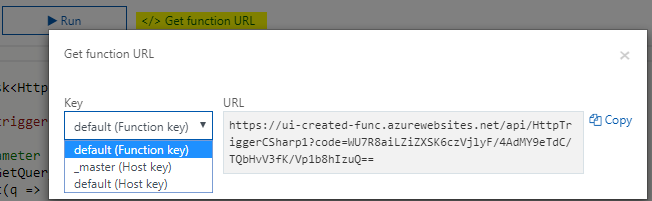
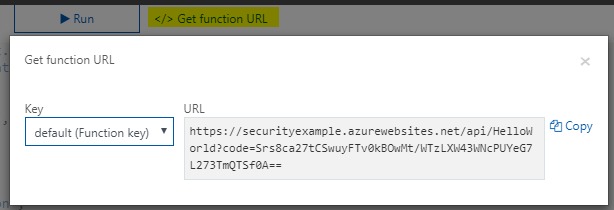
raw outline of part one.

Changed region(s): [[0.0, 0.0, 1.0, 1.0], [0.9283, 0.2687, 0.9593, 0.3284]]

diff --git a/_posts/2018-07-01-Azure-Functions-Security.md b/_posts/2018-07-01-Azure-Functions-Security.md
@@ -15,24 +15,26 @@ Es stellt sich die Frage, ob diese function dann auch schon "abgesichert" ist.
 
 Eine function besteht grob aus zwei Teilen: Aus der ["Azure Function"](https://docs.microsoft.com/en-us/azure/azure-functions/) selbst und dem ["Azure App Service"](https://docs.microsoft.com/en-us/azure/app-service/) in dem die function existiert. Dies führt dazu, dass man zwei Punkte betrachten muss, wenn es um die Frage der Sicherheit geht: Zum einen den App Service und zum anderen die function. 
 
-## Sicherheit in functions
-Die Fragestellung nach der "Sicherheit der function" ist etwas verwirrend - im Grunde soll ja nicht die function abgesichert werden, sondern der Aufruf bzw. der Start der function. Functions starten immer über sogenannte Trigger, von denen die meisten Azure-Intern zu verwenden sind (z.B. Timer, Event Hub oder Blob Storage). Der für  diesen Artikel betrachtete Trigger ist der [HTTP oder "generic web hook"-Trigger](https://docs.microsoft.com/en-us/azure/azure-functions/functions-create-generic-webhook-triggered-function).
+# Authentifizierung und Autorisierung
 
-Lauf [Doku](https://docs.microsoft.com/en-us/azure/azure-functions/functions-bindings-http-webhook#trigger---configuration) stehen drei Autorisierungsmechanismen auf Ebene der functions zur Verfügung:
+## Sicherheit in functions
+Die Fragestellung nach der "Sicherheit der function" ist etwas verwirrend - im Grunde soll ja nicht die function abgesichert werden, sondern der Aufruf bzw. der Start der function. Functions starten immer über sogenannte Trigger, von denen die meisten Azure-Intern zu verwenden sind (z.B. Timer, Event Hub oder Blob Storage). Der für  diesen Artikel betrachtete Trigger ist daher der [HTTP oder "generic web hook"-Trigger](https://docs.microsoft.com/en-us/azure/azure-functions/functions-create-generic-webhook-triggered-function).
+
+Laut [Doku](https://docs.microsoft.com/en-us/azure/azure-functions/functions-bindings-http-webhook#trigger---configuration) stehen drei Autorisierungsmechanismen auf Ebene des Triggers zur Verfügung:
+
+![Die Folgenden Autorisierungen stehen zur Verfügung](../assets/images/posts/Azure-Functions-Security/function-authorization-ui.png) ![Im Tooltip gibt es auch eine kleine Erklärung](../assets/images/posts/Azure-Functions-Security/function-authorization-ui-explained.png)
 
  - `anonymous` - No API key is required.
  - `function` - A function-specific API key is required. This is the default value if none is provided.
  - `admin` - The master key is required.
 
-![Die Folgenden Autorisierungen stehen zur Verfügung](../assets/images/posts/Azure-Functions-Security/function-authorization-ui.png) ![Im Tooltip gibt es auch eine kleine Erklärung](../assets/images/posts/Azure-Functions-Security/function-authorization-ui-explained.png)
- 
-Diese Funktion lässt es also zu, den Aufruf der function über einen Schlüssel (oder "key") abzusichern. Wie sieht das genau aus:
+Der HTTP-Trigger einer Funktion lässt es also zu, den Aufruf der function über einen Schlüssel (oder "key") abzusichern. Wie sieht das genau aus:
 
-Zuerst muss der Schlüssel abgerufen werden:
+Zuerst muss der Schlüssel abgerufen werden: Dis geht über die Seite der Funktion selber:
 
 ![Anzeige von Schlüsseln in der UI](../assets/images/posts/Azure-Functions-Security/function-authorization-keys.png)
 
-Die Schlüssel haben natürlich auch eine Verwaltungsoberfläche:
+Oder über die Verwaltungsseite: 
 
 ![Anzeige von Schlüsseln in der UI](../assets/images/posts/Azure-Functions-Security/function-authorization-key-management.png)
 
@@ -40,13 +42,40 @@ Die Schlüssel können über zwei verschiedene Mechanismen verwendet werden. Ent
 
     https://<yourapp>.azurewebsites.net/api/<function>?code=<ApiKey>
 
-Oder als `x-functions-key` HTTP-Header.
+Oder über den HTTP-Header `x-functions-key`.
+
+Ein möglicher Zugriff kann damit auf zwei Arten geschehen:
+
+```cs
+    const string function = "https://securityexample.azurewebsites.net/api/HelloWorld";
+    const string code = "Srs8ca27tCSwuyFTv0kBOwMt/WTzLXW43WNcPUYeG7L273TmQTSf0A==";
+
+    // via get-parameter
+    using (var client = new WebClient())
+    {
+        Console.WriteLine("Sending code via get-parameter...");
+        var fullUrl = $"{function}?code={code}";
+        var data = client.DownloadString(fullUrl);
+        Console.WriteLine(data);
+    }
+
+    // oder via HTTP-Header
+    using (var client = new WebClient())
+    {
+        Console.WriteLine("Sending code via HTTP-Header...");
+        client.Headers.Add("x-functions-key", code);
+        var data = client.DownloadString(function);
+        Console.WriteLine(data);
+    }
+```
 
 Auf Ebene einer mit Code erstellen function lässt sich noch eine weitere Methode finden: *User*
 
-![Uer als Authorisation ist im code möglich](../assets/images/posts/Azure-Functions-Security/function-authorization-code.png)
+![User als Authorisation ist im code möglich](../assets/images/posts/Azure-Functions-Security/function-authorization-code.png)
 
-Dieses feature ist aber - obwohl hier auswählbar - zum Zeitpunkt dieses Beitrags noch nicht verfügbar. (Der Status des features kann in einem [Github-Issue](https://github.com/Azure/azure-functions-host/issues/33) eingesehen werden.) Eine Benutzer-Autorisierung scheint auf Ebene der Functions also nicht möglich. 
+Dieses feature ist aber - obwohl hier auswählbar - zum Zeitpunkt dieses Beitrags noch nicht verfügbar. (Der Status des features kann in einem [Github-Issue](https://github.com/Azure/azure-functions-host/issues/33) eingesehen werden.) 
+
+Auf Ebene der Funktion ist ist also eine [Autorisierung über einen Key oder Code](https://en.wikipedia.org/wiki/Shared_secret) möglich. Eine Authentifizierung ist hier nicht möglich. 
 
 ## Sicherheit im app service
 
@@ -59,58 +88,72 @@ Die aktuellen anbieter für Authentifizierung sind unter anderem "Microsoft" und
 
 Zusätzlich ist einstellbar, ob unauthentifizierte Zugriffe erlaubt sein sollen oder ob diese an einen der angegebenen Authentifizierungsanbieter umgeleitet werden sollen.
 
-Den Ablauf der Authentifizierung ein einem App Servive stellt die entsprechende [Doku](https://docs.microsoft.com/en-us/azure/app-service/app-service-authentication-overview#authentication-flow) gut dar. Grob vereinfacht sieht der Ablauf wie folgt aus:
+Den Ablauf der Authentifizierung an einem App Servive stellt die entsprechende [Doku](https://docs.microsoft.com/en-us/azure/app-service/app-service-authentication-overview#authentication-flow) gut dar. Grob vereinfacht sieht der Ablauf wie folgt aus:
 
 1. Anmeldung : Der Benutzer Authentifiziert sich an einem Authentifizierungsanbieter. Das Ergebnis ist ein Beweis (token) des Authentifizierungs-Anbieters.
 2. Validierung : Der Beweis der Authentifizierungsanbieter wird an den App Service gesendet und dort geprüft. Das Ergebnis ist ein Beweis des App Service.
 3. Verwendung : Der Beweis des App Service wird für Aufrufe der function verwendet.
 
-# Autorisierung und Authentifizierung von Benutzern am Beispiel
+# Authentifizierung von Benutzern am Beispiel
 
-Als Ausgangspunkt wird eine einfache function, wie sie z.B. in [diesem Projekt](https://github.com/nils-a/function-security-blog/blob/4459770832d74c17ce1455b5fcb340a274759c75/SecurityExample/SecurityExample/HelloWorld.cs) definiert ist verwendet.
+Als Ausgangspunkt wird eine einfache function, wie sie z.B. in [diesem Projekt](https://github.com/nils-a/function-security-blog/blob/f912dbd8d1ed08bf839c82d0e1c70b11eb34a982/SecurityExample/SecurityExample/UserInfo.cs) definiert ist verwendet. 
 
-Der Aufruf einer solchen function ist in den meisten tools relativ simpel:
+Der eigentliche Aufruf einer solchen function ist in relativ simpel und folgt dem o.a. Ablauf:
 
-![einfacher Aufruf einer einfachen function](../assets/images/posts/Azure-Functions-Security/function-example1-call1.png)
+1. Authentifizierung gegen den Authentifizierungsanbieter. Das Ergebnis dieses Aufrufes ist ein token des Providers.
+2. Das Token des Providers wird als JSON-Objekt an den *Login*-Endpunkt des App Service gesendet. Das Ergebnis dieses Aufrufes ist ein *EasyAccess*-Token
+3. Das *EasyAccess*-Token wird im HTTP-Header `X-ZUMO-AUTH` für den Aufruf der Funktion verwendet.
 
-Als ersten Schritt in der einrichtung einer Authentifizierung wird der function-Aufruf auf "Anonym" gestellt:
+Im Code:
+```cs
+// Step 1:
+var providerToken = await AuthenticateToProvider();
 
-	HttpTrigger(AuthorizationLevel.Anonymous ....
+// Step 2:
+var easyAuthToken = await AuthenticateToAzure(functionUrl, providerToken);
 
-und statt dessen ein Authentifizierungsanbieter eingerichtet:
-Dieser Schritt wird begonnen mit der Einrichtung direkt am Authentifizierungsanbieter. Dieses beispiel verwendet den "Microsoft"-Authentifizierungsanbieter.
+//
+// Step3: Use the token we got from "EasyAuth" 
+//
+using (var client = new WebClient())
+{
+    client.Headers.Add("X-ZUMO-AUTH", easyAuthToken);
+    var data = await client.DownloadStringTaskAsync(functionUrl);
+    return data;
+}
+```
 
-1. unter [https://apps.dev.microsoft.com/](https://apps.dev.microsoft.com/) muss eine "App" eingerichtet werden. D.h. eine Anwendung gegen die die Authentifizierung erfolgt.
-	1. Für die Anwendung muss ein Anwendungsgeheimnis eingerichtet werden
-	2. Und eine Plattform: Web (für die Anmeldung mit der automatischen Weiterleitung). Die Umleitungs-URL für die Plattform ist anhand der [Doku](https://docs.microsoft.com/en-us/azure/app-service/app-service-authentication-overview#identity-providers) zu ermitteln: In diesem Fall ist es `https://<yourapp>.azurewebsites.net/.auth/login/microsoftaccount/callback` (Achtung: Entgegen der Doku ist die URL wirklich `.../microsoftaccount/...` und nicht `.../microsoft/...`.) 
-2. Anwendungs-ID und -geheimnis müssen in azure für den Authentifizierungsanbieter hinterlegt werden und es muss mindestens der Bereich "wl.basic" ausgewählt werden:
+> **Anmerkung**
+>
+> Das Token, welches vom Authentifizierungsanbieter geliefert wird ist ein sog. [JWT-Token](https://en.wikipedia.org/wiki/JSON_Web_Token) dass mit geeigneten Tools (z.B. mit [jwt.io](https://jwt.io/)) dekodiert werden kann.
+> Diest ist nützlich, wenn man den Authentifizierungsprozess debuggen muss.
+>
+> z.B: muss im Payload-Data bereich des Tokens im bereich des Identity-Providers (`idp`) der Wert übereinstimmen mit dem gewählten Anbieter für den nächsten Schritt bei dem das Token an azure übergeben wird. 
+
+Damit dies so funktioniert müssen vorher eine Einstellung vorgenommen werden: 
+ Es muss ein Authentifizierungsanbieter eingerichtet werden. Dieses beispiel verwendet den "Microsoft"-Authentifizierungsanbieter:
+
+1. Bevor azure-Seitig der Authentifizierungsanbieter ausgewählt werden kann muss bei allen Authentifizierungsanbietern eine sog. "App" (D.h. eine Anwendung für die die Authentifizierung erfolgt) eingerichtet werden. Für den "Microsoft"-Authentifizierungsanbieter geschieht dies unter [https://apps.dev.microsoft.com/](https://apps.dev.microsoft.com/) 
+	1. Für die Anwendung muss ein Anwendungsgeheimnis eingerichtet werden. Dies wird später in azure hinterlegt.
+	2. Es muss eine Plattform eingerichtet werden: Web (für die Anmeldung mit der automatischen Weiterleitung). Die Umleitungs-URL für die Plattform ist anhand der [Doku](https://docs.microsoft.com/en-us/azure/app-service/app-service-authentication-overview#identity-providers) zu ermitteln: In diesem Fall ist es `https://<yourapp>.azurewebsites.net/.auth/login/microsoftaccount/callback` (Achtung: Entgegen der Doku ist die URL wirklich `.../microsoftaccount/...` und nicht `.../microsoft/...`.) 
+2. Die Anwendungs-ID und -geheimnis müssen in azure für den Authentifizierungsanbieter hinterlegt werden und es muss mindestens der Bereich "wl.basic" ausgewählt werden:
    
       ![app-id und -geheimnis in azure](../assets/images/posts/Azure-Functions-Security/function-example1-appinazure.png)
 
-	  Zusätzlich sollten unauthentifizierte Anfragen an den Microsoft-Authentifizierungsanbieter umgeleitet werden.
-      Mit dieser änderung kann die function schon nicht mehr "einfach" z.B. über tools/einfache rest-abfragen abgerufen werden.
+Wenn dies derart eingerichtet ist, lässt sich auf Seite der function recht einfach überprüfen ob der aktuelle Request wirklich Authentifiziert ist:
 
-      Dafür ist es jetzt möglich die function über den Browser anzusprechen - ohne code-Parameter in der URL, dafür mit Anmeldung:
+```cs
+var principal = ClaimsPrincipal.Current;
+if(principal == null || !principal.Identity.IsAuthenticated)
+{
+    return req.CreateResponse(HttpStatusCode.OK, "Unauthenticated", "text/plain");
+}
+```
 
-      ![Anmeldung nach automatischer Umleitung](../assets/images/posts/Azure-Functions-Security/function-example1-login.png)
+# Fazit
 
-      ![app-id und -geheimnis in azure](../assets/images/posts/Azure-Functions-Security/function-example1-webresult.png)
+* Das Zusammenspiel von Authentifizierung auf Seiten des App Service und Autorisierung auf Seiten des Triggers der Function ist nicht direkt offensichtlich:
+  * Autorisierung erfolgt auf Seiten des Triggers der function. Im Falle des HTTP-Trigges basiert die Autorisierung auf einem Code (Shared Secret)
+  * Authentifizierung erfolgt auf Seite des App Service. Generell lässt sich einstellen, ob unauthentifizierte Anfragen zugelassen werden oder generell an einen Authentifizierungsanbieter weitergeleitet werden.
+* Eine pro-Benutzer Autorisierung ist zum aktuellen Zeitpunkt nicht mit Standardfunktionen (oder [*OOTB*](https://en.wikipedia.org/wiki/Out_of_the_box_%28feature%29)) machbar.
 
-
-todo todo todo
-todo todo todo
-todo todo todo
-
-# Achtung
-
-ACHTUNG ACHTUNG ACHTUNG ACHTUNG  
-*das hier muss alles noch weg!*    
-ACHTUNG ACHTUNG ACHTUNG ACHTUNG 
-
-# offene Schritte:
-
-* function umbauen, sodass User-Infos aus Graph kommen (bzw. vom Authentifizierungsanbieter...)
-* rest & Desktop-App zugriffe "ermöglichen" 
-* Auf Authorisation eingehen im gegensatz zu Authentikation
-* Alternativen? (
-* Auth0?)
